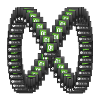
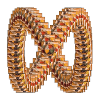
Update images in animated tiles

diff --git a/src/animated_tiles.cpp b/src/animated_tiles.cpp
@@ -35,6 +35,7 @@
 
 #include "animated_tiles.h"
 
+#include <QGridLayout>
 #include <QPropertyAnimation>
 #include <QParallelAnimationGroup>
 #include <QSignalTransition>
@@ -44,18 +45,18 @@
 static const QString qmPath = ":/resources/animated_tiles";
 
 AnimatedTiles::AnimatedTiles(QWidget *parent)
-   : QWidget(parent), m_scene(-350, -350, 700, 700, this)
+   : QWidget(parent), m_scene(-300, -325, 800, 650, this)
 {
    setWindowTitle("Animated Tiles");
-   setMinimumSize(700, 700);
+   setMinimumSize(800, 650);
 
-   QPixmap kineticPix(qmPath + "/kinetic.png");
-   QPixmap bgPix(qmPath + "/Time-For-Lunch-2.jpg");
+   QPixmap spicePix(qmPath + "/spice.png");
+   QPixmap bgPix(qmPath + "/background.jpg");
 
    QList<Pixmap *> items;
    for (int i = 0; i < 64; ++i) {
-      Pixmap *item = new Pixmap(kineticPix);
-      item->setOffset(-kineticPix.width()/2, -kineticPix.height()/2);
+      Pixmap *item = new Pixmap(spicePix);
+      item->setOffset(-spicePix.width()/2, -spicePix.height()/2);
       item->setZValue(i);
       items << item;
       m_scene.addItem(item);
@@ -69,11 +70,11 @@ AnimatedTiles::AnimatedTiles(QWidget *parent)
    Button *tiledButton    = new Button(QPixmap(qmPath + "/tile.png"), buttonParent);
    Button *centeredButton = new Button(QPixmap(qmPath + "/centered.png"), buttonParent);
 
-   ellipseButton->setPos(-100, -100);
-   figure8Button->setPos(100, -100);
-   randomButton->setPos(0, 0);
-   tiledButton->setPos(-100, 100);
-   centeredButton->setPos(100, 100);
+   ellipseButton->setPos(300, -605);
+   figure8Button->setPos(300, -445);
+   randomButton->setPos(300, -285);
+   tiledButton->setPos(300, -125);
+   centeredButton->setPos(300, 35);
 
    m_scene.addItem(buttonParent);
    buttonParent->scale(0.75, 0.75);
@@ -88,38 +89,46 @@ AnimatedTiles::AnimatedTiles(QWidget *parent)
    QState *tiledState    = new QState(rootState);
    QState *centeredState = new QState(rootState);
 
-   // Values
+   // values
+   int scale = 200;
+
    for (int i = 0; i < items.count(); ++i) {
       Pixmap *item = items.at(i);
 
       // Ellipse
       ellipseState->assignProperty(item, "pos",
-               QPointF(cos((i / 63.0) * 6.28) * 250, sin((i / 63.0) * 6.28) * 250));
+               QPointF(cos((i / 63.0) * 6.28) * scale, sin((i / 63.0) * 6.28) * scale));
 
       // Figure 8
       figure8State->assignProperty(item, "pos",
-               QPointF(sin((i / 63.0) * 6.28) * 250, sin(((i * 2)/63.0) * 6.28) * 250));
+               QPointF(sin((i / 63.0) * 6.28) * scale, sin(((i * 2)/63.0) * 6.28) * scale));
 
       // Random
       randomState->assignProperty(item, "pos",
-               QPointF(-250 + qrand() % 500, -250 + qrand() % 500));
+               QPointF(-scale + qrand() % (scale * 2), -scale + qrand() % (scale * 2)));
 
       // Tiled
       tiledState->assignProperty(item, "pos",
-               QPointF(((i % 8) - 4) * kineticPix.width() + kineticPix.width() / 2,
-               ((i / 8) - 4) * kineticPix.height() + kineticPix.height() / 2));
+               QPointF(((i % 8) - 4) * spicePix.width() + spicePix.width() / 2,
+               ((i / 8) - 4) * spicePix.height() + spicePix.height() / 2));
 
       // Centered
       centeredState->assignProperty(item, "pos", QPointF());
    }
 
-   // Ui
+   // ui
    View *view = new View(&m_scene, this);
    view->setWindowTitle(QT_TRANSLATE_NOOP(QGraphicsView, "Animated Tiles"));
    view->setViewportUpdateMode(QGraphicsView::BoundingRectViewportUpdate);
    view->setBackgroundBrush(bgPix);
    view->setCacheMode(QGraphicsView::CacheBackground);
    view->setRenderHints(QPainter::Antialiasing | QPainter::SmoothPixmapTransform);
+
+   // layout
+   QGridLayout *m_mainLayout = new QGridLayout;
+   m_mainLayout->addWidget(view, 0, 0);
+   m_mainLayout->setContentsMargins(0,0,0,0);
+   setLayout(m_mainLayout);
 
    view->show();
 

diff --git a/src/animated_tiles.h b/src/animated_tiles.h
@@ -90,7 +90,7 @@ class Button : public QGraphicsWidget
    CS_OBJECT(Button)
 
    public:
-      Button(const QPixmap &pixmap, QGraphicsItem *parent = 0)
+      Button(const QPixmap &pixmap, QGraphicsItem *parent = nullptr)
          : QGraphicsWidget(parent), _pix(pixmap)
       {
          setAcceptHoverEvents(true);
@@ -120,14 +120,16 @@ class Button : public QGraphicsWidget
          painter->setPen(Qt::darkGray);
          painter->setBrush(grad);
          painter->drawEllipse(r);
+
          QLinearGradient grad2(r.topLeft(), r.bottomRight());
          grad.setColorAt(down ? 1 : 0, Qt::darkGray);
          grad.setColorAt(down ? 0 : 1, Qt::lightGray);
          painter->setPen(Qt::NoPen);
          painter->setBrush(grad);
 
-         if (down)
+         if (down) {
             painter->translate(2, 2);
+         }
 
          painter->drawEllipse(r.adjusted(5, 5, -5, -5));
          painter->drawPixmap(-_pix.width()/2, -_pix.height()/2, _pix);
